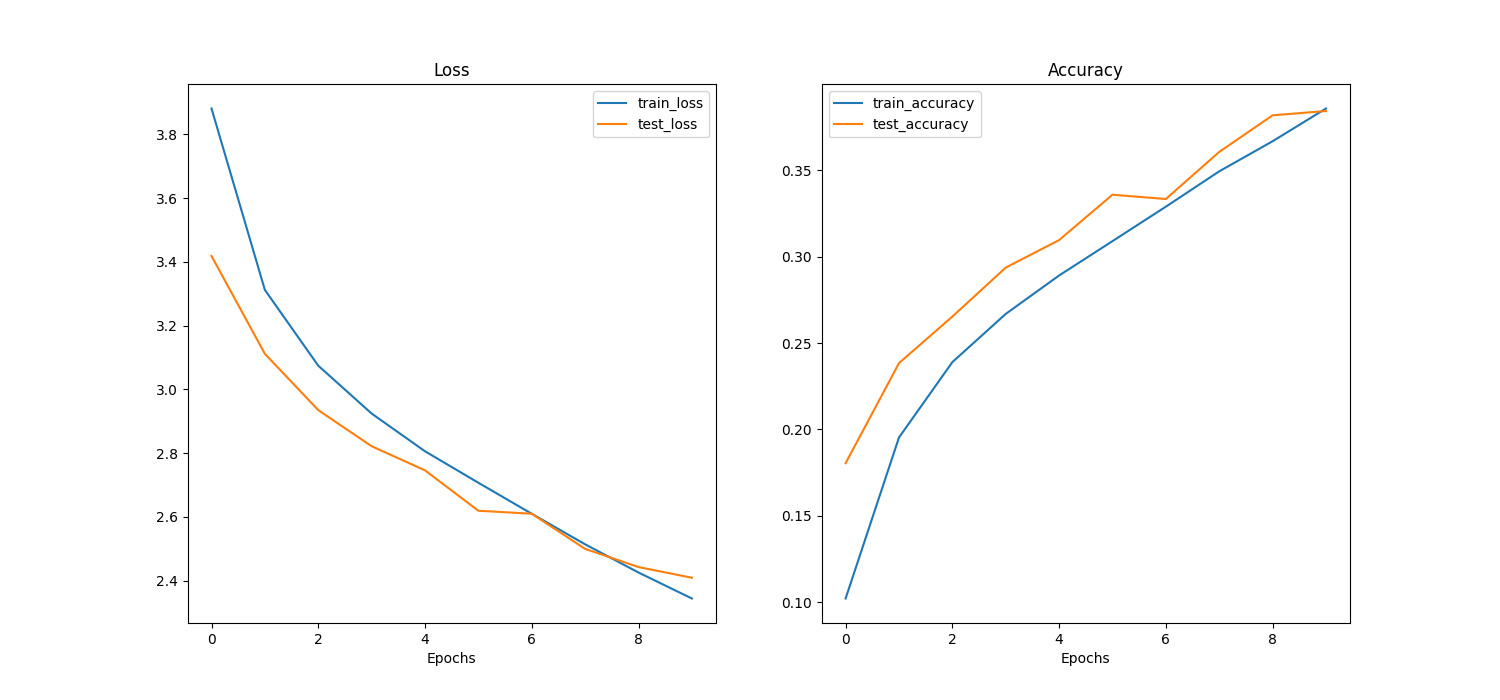
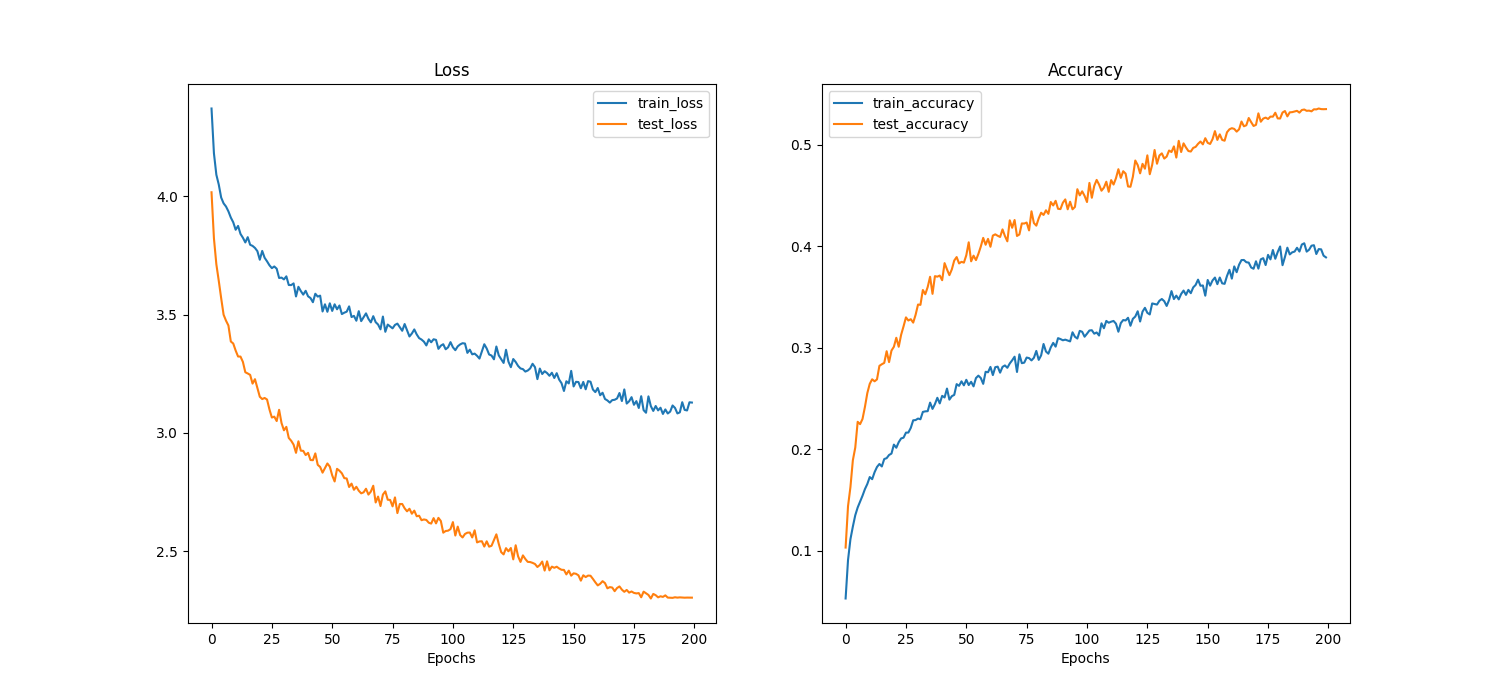
used mixup and cutmix to avoid overfiiting and achieved 53% accuracy

diff --git a/train_test.py b/train_test.py
@@ -1,9 +1,7 @@
-# train.py
-
 import torch
 from torch import nn
-from torchvision.transforms import (Compose, Resize, ToTensor, Normalize, 
-                                    RandomCrop, RandomHorizontalFlip)
+
+from torchvision.transforms import v2 
 import torchmetrics
 
 from config import Config as config
@@ -11,52 +9,57 @@ import model
 import data_setup
 import engine
 import utils
+from torch.optim.lr_scheduler import CosineAnnealingLR
 
 device = "cuda" if torch.cuda.is_available() else "cpu"
 print(f"Using device: {device}")
 
-
-train_transform = Compose([
-    Resize((config["image_size"], config["image_size"])),
-    RandomCrop(config["image_size"], padding=4),
-    RandomHorizontalFlip(),
-    ToTensor(),
-    Normalize(mean=[0.507, 0.487, 0.441], std=[0.267, 0.256, 0.276]) # CIFAR-100 stats
+# Updated to use v2 transforms
+train_transform = v2.Compose([
+    v2.ToImage(), # Standardize internal format
+    v2.RandomResizedCrop(size=(config["image_size"], config["image_size"]), antialias=True),
+    v2.RandomHorizontalFlip(p=0.5),
+    v2.ToDtype(torch.float32, scale=True), # Converts to float and scales to [0, 1]
+    v2.Normalize(mean=[0.507, 0.487, 0.441], std=[0.267, 0.256, 0.276])
 ])
 
-
-test_transform = Compose([
-    Resize((config["image_size"], config["image_size"])),
-    ToTensor(),
-    Normalize(mean=[0.507, 0.487, 0.441], std=[0.267, 0.256, 0.276])
+test_transform = v2.Compose([
+    v2.ToImage(),
+    v2.Resize((config["image_size"], config["image_size"]), antialias=True),
+    v2.ToDtype(torch.float32, scale=True),
+    v2.Normalize(mean=[0.507, 0.487, 0.441], std=[0.267, 0.256, 0.276])
 ])
-
 
 train_dataloader, test_dataloader, class_names = data_setup.create_dataloaders(
     train_transform=train_transform,
     test_transform=test_transform,
-    batch_size=config["batch_size"]
+    batch_size=config["batch_size"],
+    num_classes=config["num_classes"] # Pass num_classes for Mixup/Cutmix
 )
 
-# Initialize model
 vit_model = model.VitForClassification(config).to(device)
 
-# Setup loss, optimizer, and accuracy function
-loss_fn = nn.CrossEntropyLoss()
+# CrossEntropyLoss natively supports soft labels (probabilities) from Mixup
+loss_fn = nn.CrossEntropyLoss(label_smoothing=0.1) # Added label smoothing as an extra layer of defense
+
+# Removed the duplicate optimizer definition
 optimizer = torch.optim.AdamW(vit_model.parameters(), 
                                 lr=config["learning_rate"], 
                                 weight_decay=config["weight_decay"])
+
 accuracy_func = torchmetrics.Accuracy(task='multiclass', num_classes=len(class_names)).to(device)
 
-# Start the training
-results = engine.train(model=vit_model,
-                        train_dataloader=train_dataloader,
-                        test_dataloader=test_dataloader,
-                        optimizer=optimizer,
-                        loss_fn=loss_fn,
-                        accuracy_func=accuracy_func,
-                        epochs=config["num_epochs"],
-                        device=device)
+scheduler = CosineAnnealingLR(optimizer, T_max=config["num_epochs"])
 
+
+results = engine.train(model=vit_model,
+                       train_dataloader=train_dataloader,
+                       test_dataloader=test_dataloader,
+                       optimizer=optimizer,
+                       loss_fn=loss_fn,
+                       accuracy_func=accuracy_func,
+                       epochs=config["num_epochs"],
+                       device=device, 
+                       scheduler=scheduler)
 
 utils.plot_loss_curves(results)

diff --git a/engine.py b/engine.py
@@ -23,8 +23,13 @@ def train_step(model: nn.Module,
             loss = loss_fn(y_pred_logits, y)
             train_loss += loss.item()
 
+            # Handle accuracy calculation for both hard and soft labels
             y_pred_class = torch.argmax(y_pred_logits, dim=1)
-            train_acc += accuracy_func(y_pred_class, y).item()
+            
+            # If y is 2D (soft labels from Mixup/Cutmix), convert to 1D class indices for accuracy calculation
+            y_true_class = torch.argmax(y, dim=1) if y.ndim == 2 else y
+            
+            train_acc += accuracy_func(y_pred_class, y_true_class).item()
 
             # 3. Optimizer zero grad
             optimizer.zero_grad()
@@ -72,14 +77,8 @@ def test_step(model: nn.Module,
 
 
 
-def train(model,
-          train_dataloader,
-          test_dataloader,
-          optimizer,
-          loss_fn,
-          accuracy_func,
-          epochs,
-          device):
+def train(model, train_dataloader , test_dataloader,optimizer,loss_fn,accuracy_func ,epochs,device , scheduler=None ) :
+          
 
 
     results = {"train_loss": [], "train_acc": [], "test_loss": [], "test_acc": []}
@@ -100,7 +99,14 @@ def train(model,
                                         loss_fn=loss_fn,
                                         accuracy_func=accuracy_func,
                                         device=device)
+        
+        if scheduler is not None:
+            scheduler.step() # Step the scheduler after each epoch
+            current_lr = scheduler.get_last_lr()[0]
+        else:
+            current_lr = optimizer.param_groups[0]['lr']
 
+    
         # --- DETAILED LOGGING ---
         print(f"Epoch: {epoch+1:02d}")
         print(f"\tTrain Loss: {train_loss:.5f} | Train Acc: {train_acc*100:.2f}%")

diff --git a/data_setup.py b/data_setup.py
@@ -1,28 +1,39 @@
-# data_setup.py
-
 import torch
 from torchvision.datasets import CIFAR100
-from torch.utils.data import DataLoader
+from torch.utils.data import DataLoader, default_collate
+from torchvision.transforms import v2
 
-def create_dataloaders(train_transform, test_transform, batch_size):
-    """Creates training and testing DataLoaders for CIFAR-100."""
+def create_dataloaders(train_transform, test_transform, batch_size, num_classes=100):
+    """Creates training and testing DataLoaders for CIFAR-100 with Mixup/Cutmix."""
     
     train_dataset = CIFAR100(root='./data', train=True, transform=train_transform, download=True)
     test_dataset = CIFAR100(root='./data', train=False, transform=test_transform, download=True)
   
+    
+    cutmix = v2.CutMix(alpha=1.0, num_classes=num_classes)
+    mixup = v2.MixUp(alpha=0.2, num_classes=num_classes)
+    
+    # Randomly choose between Mixup and Cutmix for each batch
+    cutmix_or_mixup = v2.RandomChoice([cutmix, mixup])
+
+    def collate_fn(batch):
+       
+        return cutmix_or_mixup(*default_collate(batch))
+
     train_dataloader = DataLoader(
         train_dataset,
         batch_size=batch_size,
         shuffle=True,
-        
-        pin_memory=True
+        pin_memory=True,
+        collate_fn=collate_fn 
     )
+    
     test_dataloader = DataLoader(
         test_dataset,
         batch_size=batch_size,
         shuffle=False,
-        
         pin_memory=True
+       
     )
 
     return train_dataloader, test_dataloader, train_dataset.classes

diff --git a/model.py b/model.py
@@ -169,6 +169,7 @@ class VitForClassification(nn.Module):
 
     self.embeddings = Embeddings(config)
     self.encoder = Encode(config)
+    self.final_norm = nn.LayerNorm(self.hidden_size)
     self.classification_head  =  nn.Linear(self.hidden_size,self.num_classes)
     self.apply(self._init_weights)
 
@@ -195,6 +196,7 @@ class VitForClassification(nn.Module):
     embedding_out = self.embeddings(x)
     encoder_out = self.encoder(embedding_out)
     cls_token_out = encoder_out[:,0]
+    cls_token_out = self.final_norm(cls_token_out)
     logits = self.classification_head(cls_token_out)
     return logits
 

diff --git a/config.py b/config.py
@@ -17,7 +17,7 @@ Config = {
     
     
     "batch_size": 64,           
-    "num_epochs": 10,           
+    "num_epochs": 200,           
     "learning_rate": 3e-4,
-    "weight_decay": 0.05,       
+    "weight_decay": 0.2,       
 }
